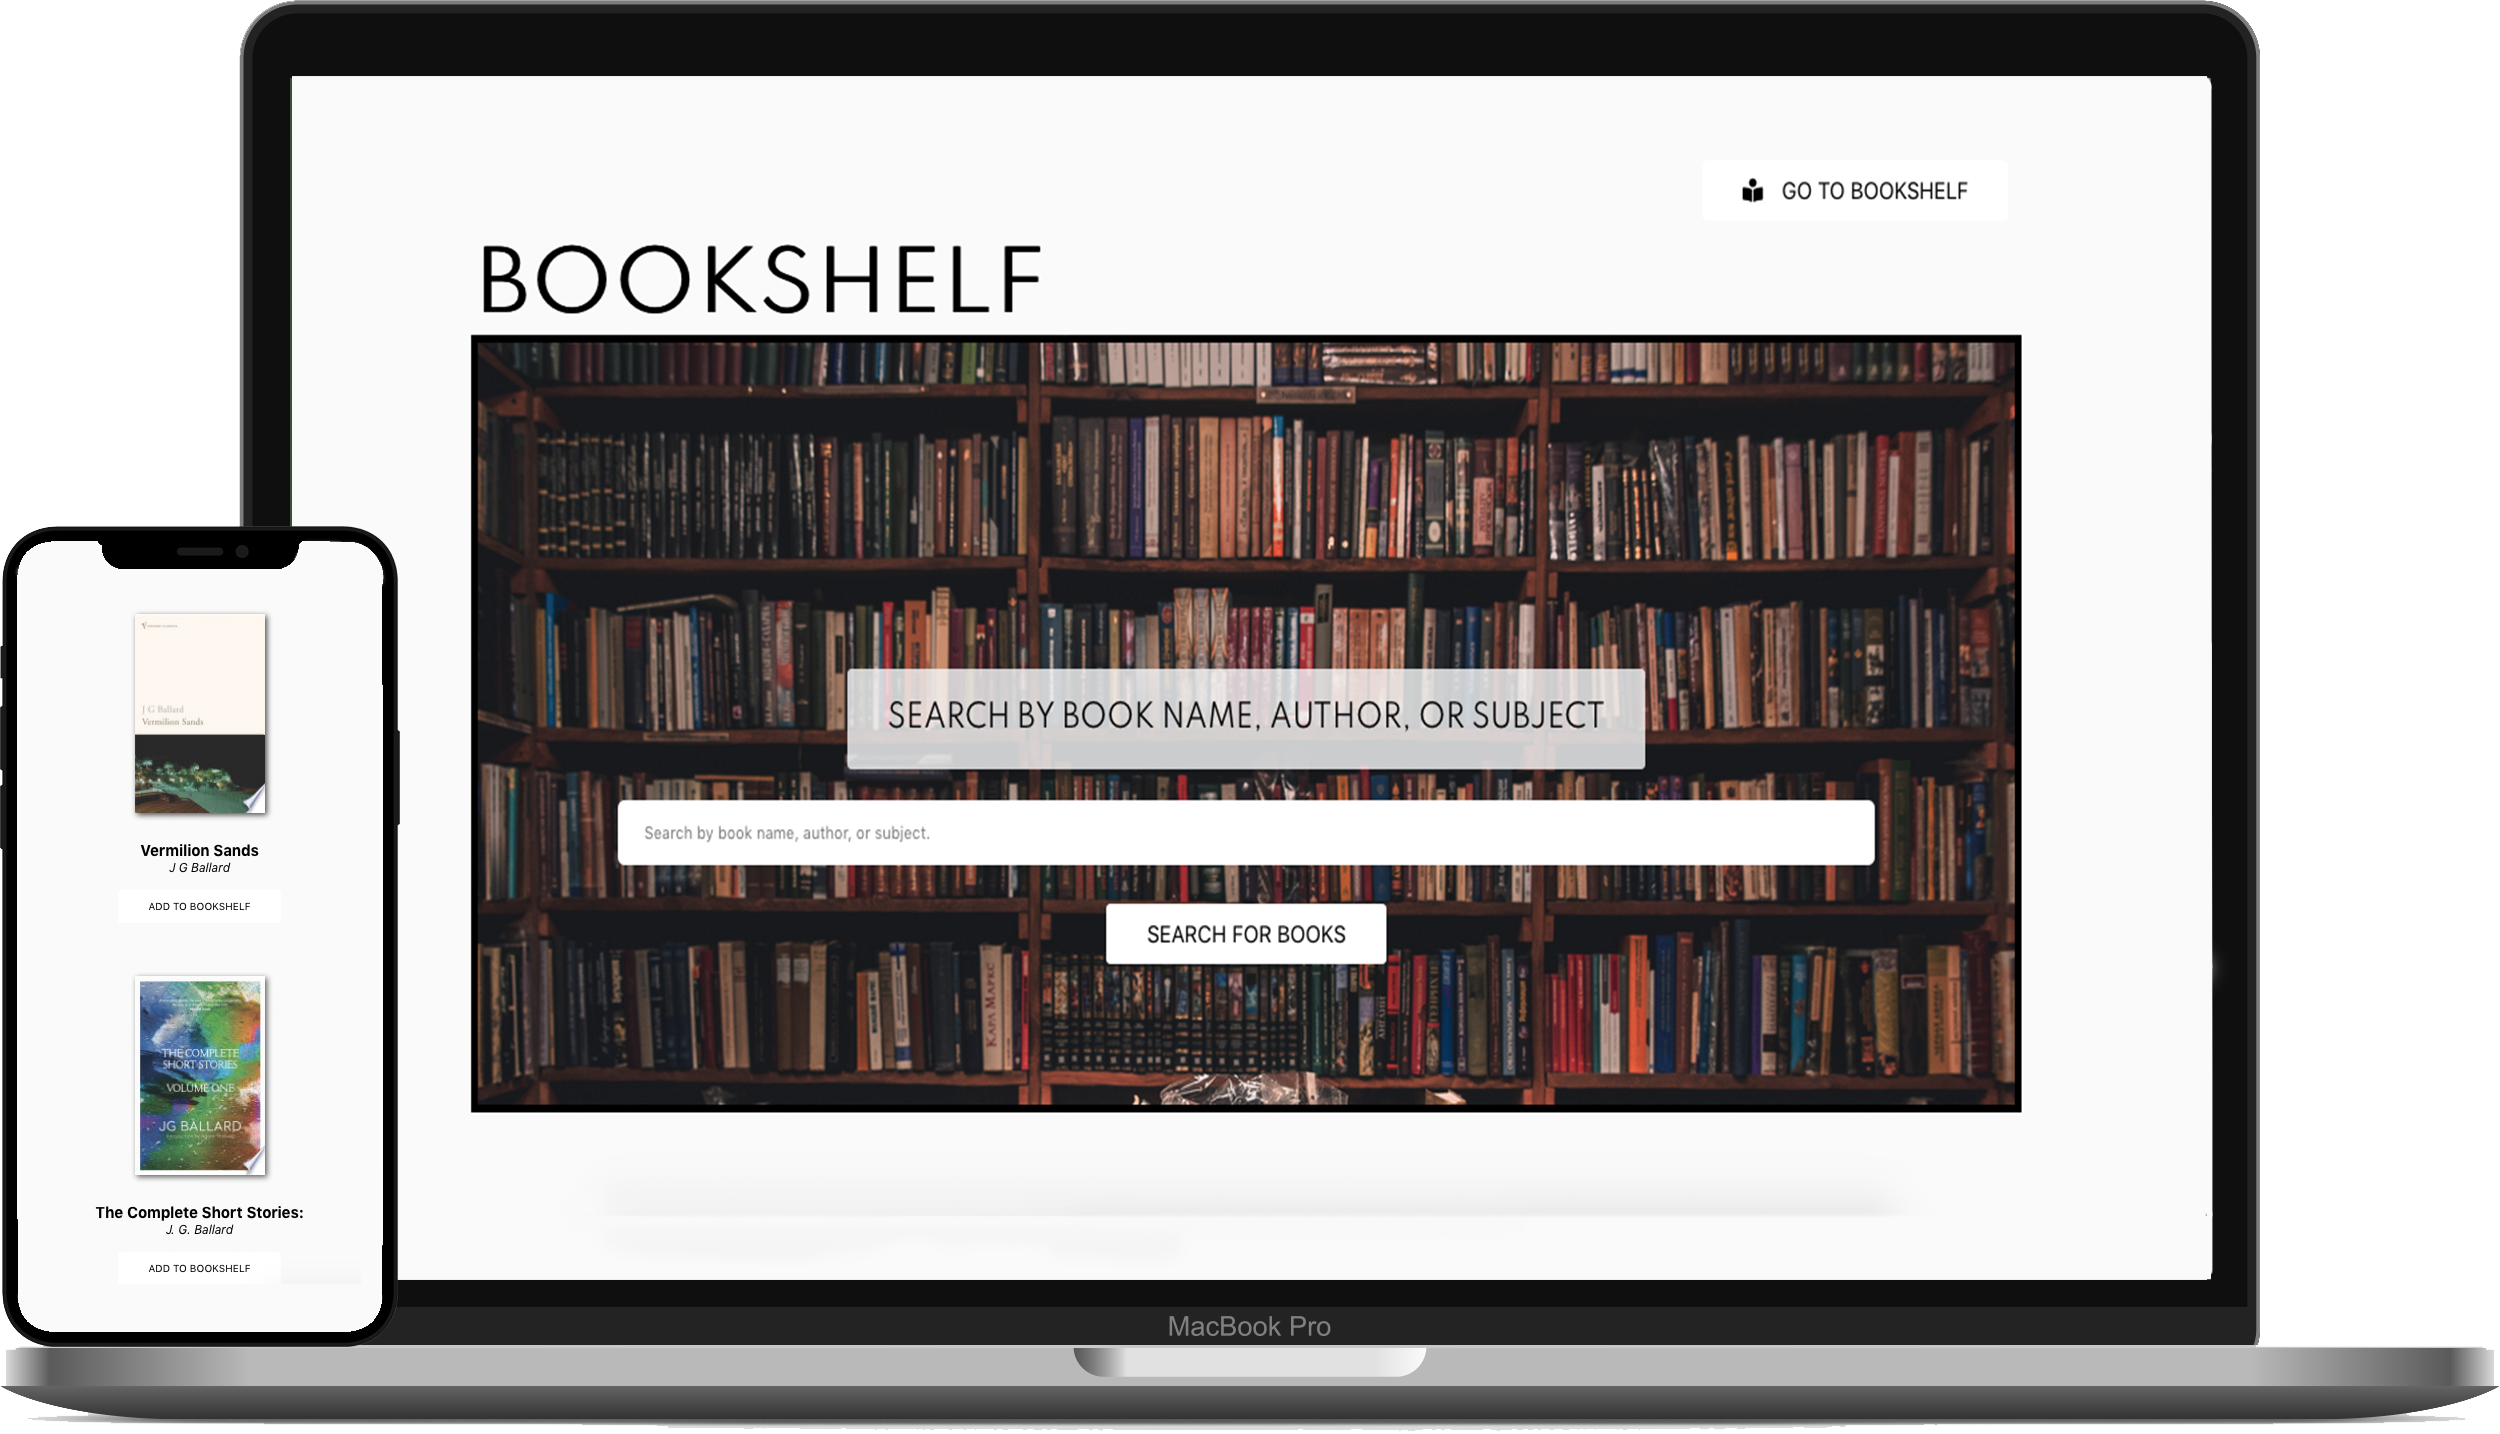
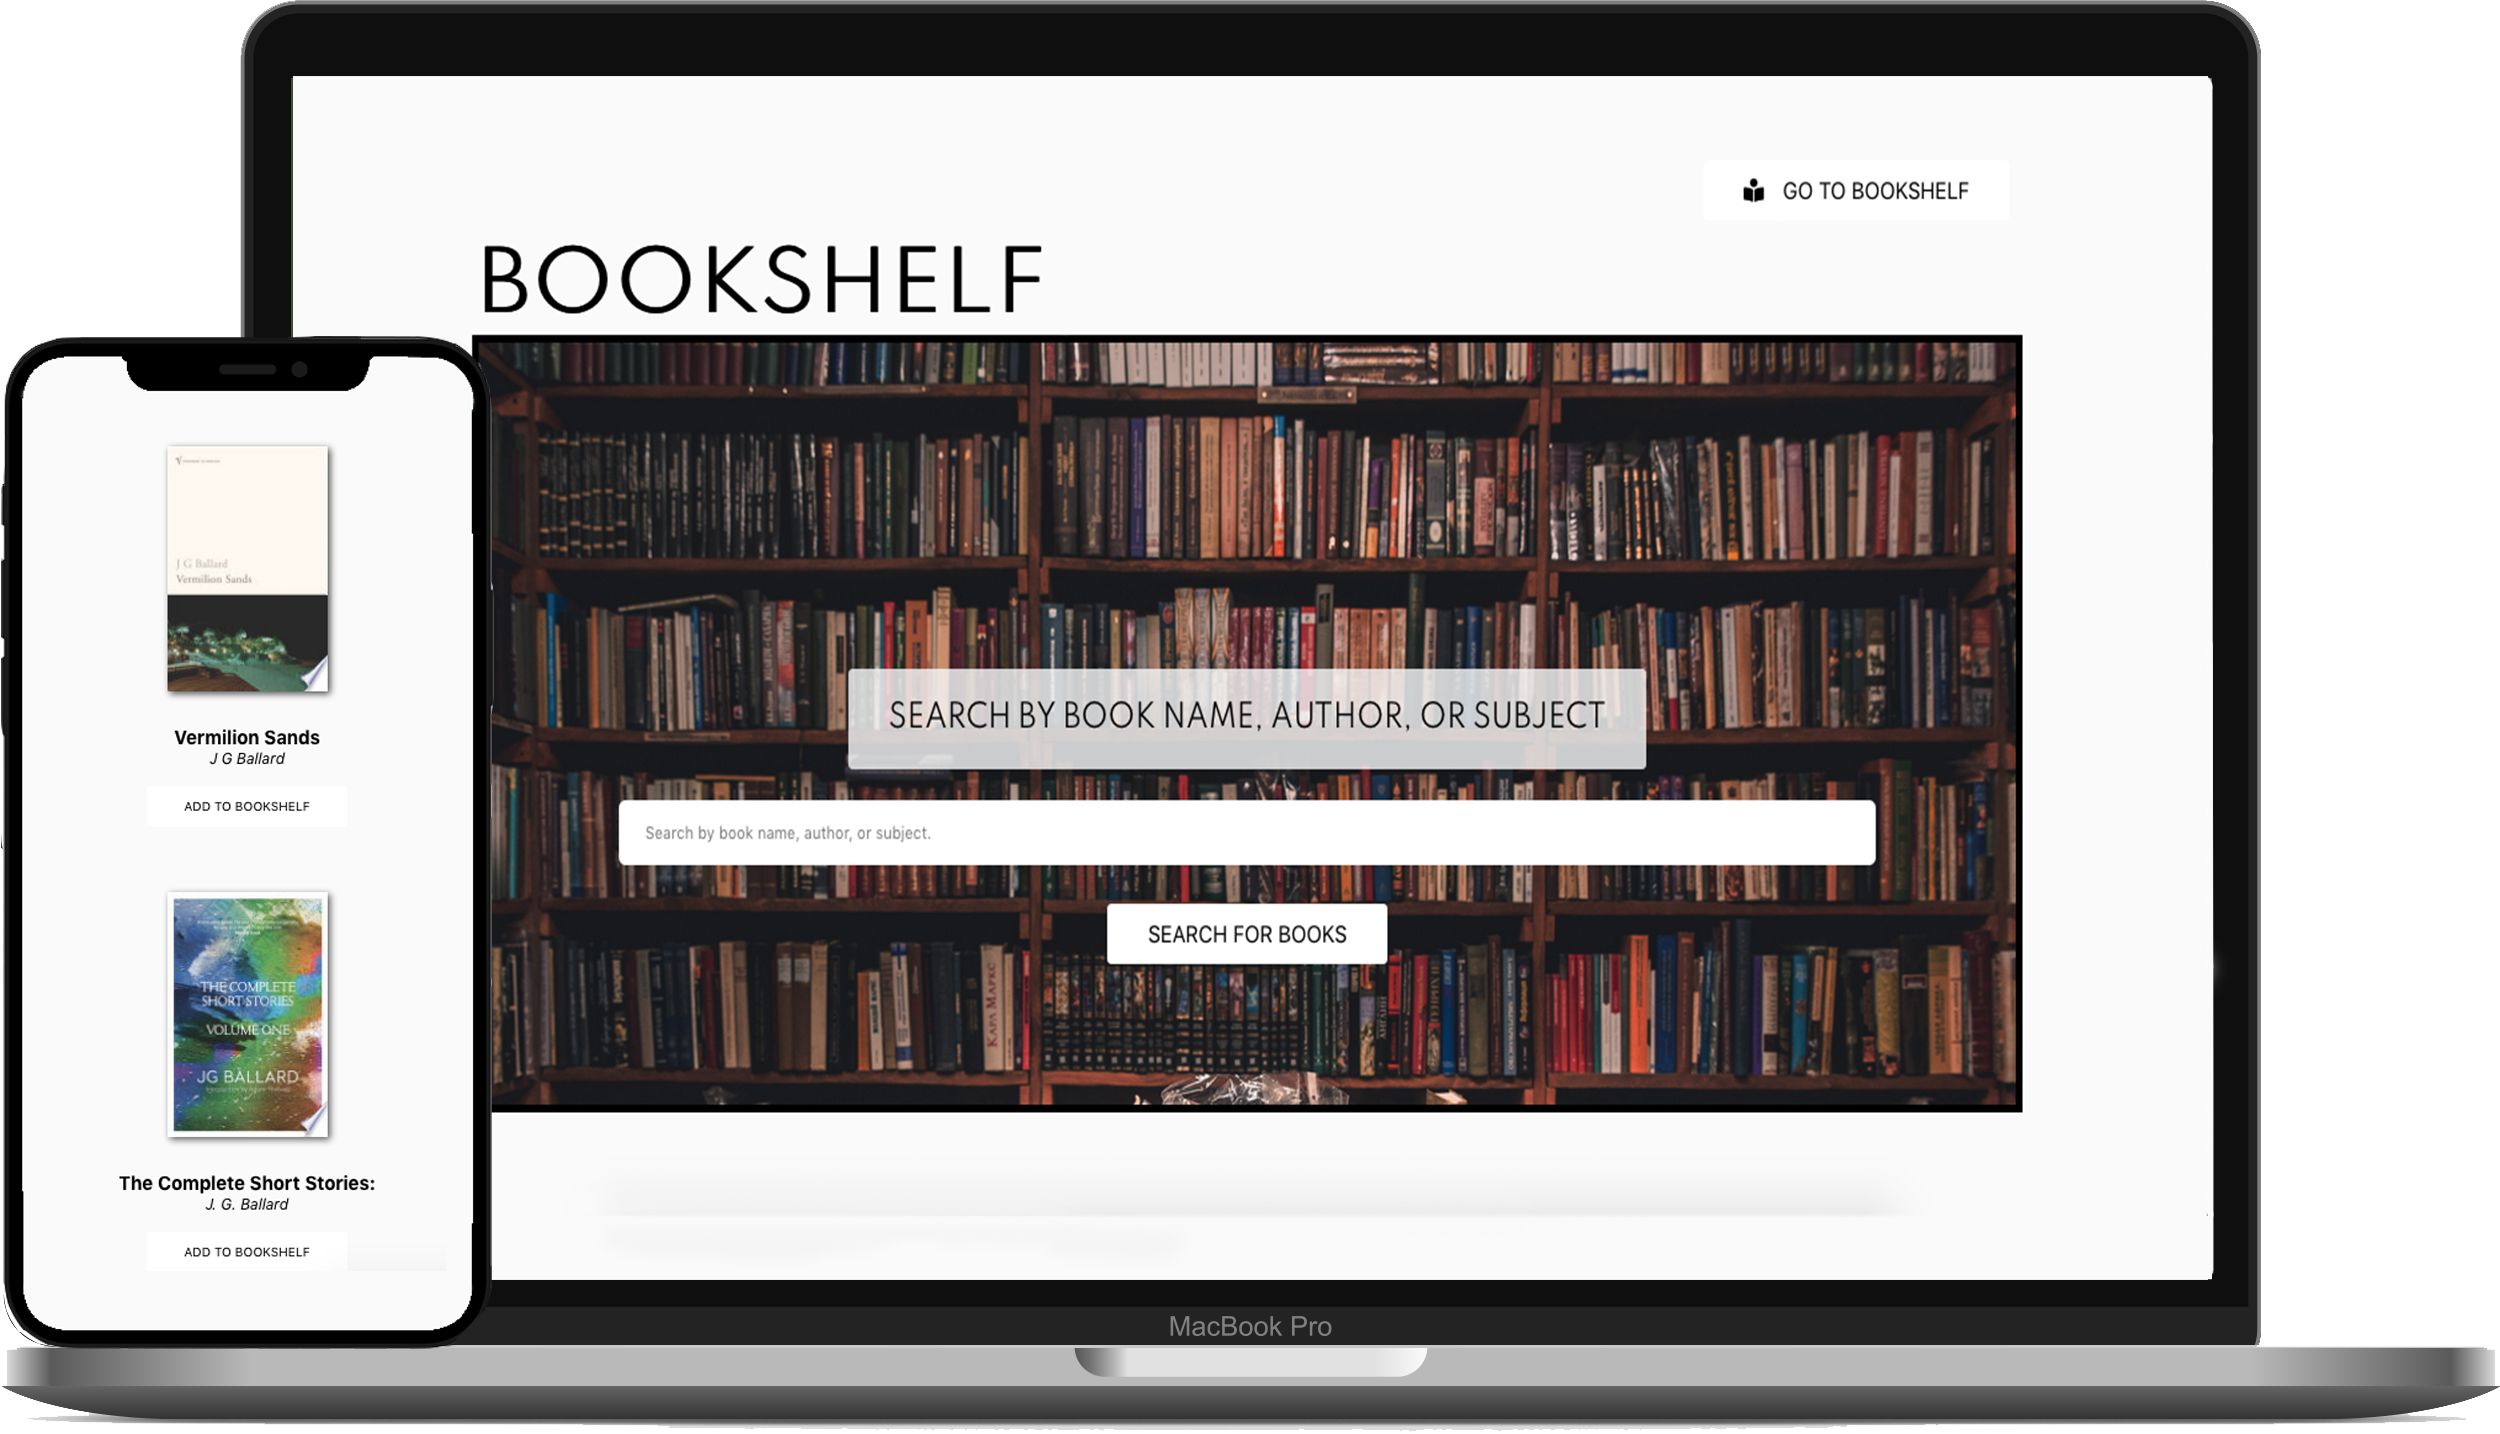
added focus states, improved accessibility, resized iphone images, made styling generally more pleasing

diff --git a/styles/style.css b/styles/style.css
@@ -359,11 +359,16 @@ body {
   opacity: 0.5;
 }
 
+header {
+  position: relative;
+  height: 650px;
+}
+
 header nav {
   background-color: white;
   position: fixed;
   width: 100%;
-  height: 8vh;
+  height: 50px;
   z-index: 1;
 }
 
@@ -378,10 +383,6 @@ header nav .wrapper {
       -ms-flex-align: center;
           align-items: center;
   padding: 0px 0 10px 0;
-}
-
-header nav .wrapper a {
-  padding-bottom: 10px;
 }
 
 header nav a {
@@ -402,10 +403,13 @@ header nav ul {
   display: -webkit-box;
   display: -ms-flexbox;
   display: flex;
+  -webkit-box-align: center;
+      -ms-flex-align: center;
+          align-items: center;
 }
 
 header nav ul li {
-  padding: 10px 0 15px 30px;
+  padding-left: 30px;
 }
 
 header nav ul li a {
@@ -419,7 +423,6 @@ header nav ul li a:hover,
 header nav ul li a:focus {
   padding-bottom: 10px;
   color: #e73058;
-  border-bottom: 2px solid #e73058;
 }
 
 header .headerText {
@@ -459,9 +462,7 @@ header .fa-chevron-down {
 }
 
 .aboutMe {
-  height: 100vh;
-  padding-top: 10vh;
-  position: relative;
+  padding: 50px 0;
 }
 
 .aboutMe .aboutMeInfo {
@@ -490,6 +491,7 @@ header .fa-chevron-down {
   font-weight: 600;
   -webkit-transition: 0.5s ease-in-out;
   transition: 0.5s ease-in-out;
+  text-decoration: underline;
 }
 
 .aboutMe .aboutMeInfo .aboutMeText p a:focus,
@@ -507,17 +509,11 @@ header .fa-chevron-down {
           box-shadow: inset 0 0 0 5px #e73058, 0 0 0 6px #6ECFD9;
 }
 
-.aboutMe .fa-chevron-down {
-  position: absolute;
-  bottom: 10%;
-}
-
 .skills {
-  height: 100vh;
   padding-top: 10vh;
   background-color: #ffffff;
-  background-image: -webkit-gradient(linear, left top, left bottom, from(#ffffff), to(#6ecfd9));
-  background-image: linear-gradient(180deg, #ffffff 0%, #6ecfd9 100%);
+  background-image: -webkit-gradient(linear, left top, left bottom, from(#ffffff), to(#a8f0f8));
+  background-image: linear-gradient(180deg, #ffffff 0%, #a8f0f8 100%);
   position: relative;
 }
 
@@ -560,8 +556,8 @@ header .fa-chevron-down {
 .latestWork {
   padding-top: 10vh;
   background-color: #6ecfd9;
-  background-image: -webkit-gradient(linear, left top, left bottom, from(#6ecfd9), color-stop(33%, #ffffff), color-stop(66%, #6ecfd9), to(#ffffff));
-  background-image: linear-gradient(180deg, #6ecfd9 0%, #ffffff 33%, #6ecfd9 66%, #ffffff 100%);
+  background-image: -webkit-gradient(linear, left top, left bottom, from(#a8f0f8), color-stop(33%, #ffffff), color-stop(66%, #a8f0f8), to(#ffffff));
+  background-image: linear-gradient(180deg, #a8f0f8 0%, #ffffff 33%, #a8f0f8 66%, #ffffff 100%);
   position: relative;
 }
 
@@ -659,6 +655,7 @@ header .fa-chevron-down {
 .formWrapper {
   margin: 0 auto;
   width: 60%;
+  margin-bottom: 50px;
 }
 
 .contactMe {
@@ -707,6 +704,10 @@ header .fa-chevron-down {
   margin-right: 20px;
 }
 
+.contactMe form .formFlex Input:focus {
+  border-bottom: 2px solid #e73058;
+}
+
 .contactMe form .textArea textArea {
   display: block;
   margin: 0 auto;
@@ -714,6 +715,10 @@ header .fa-chevron-down {
   border: 2px solid #6ECFD9;
   font-size: 1.8rem;
   padding: 10px;
+}
+
+.contactMe form .textArea textArea:focus {
+  border: 2px solid #e73058;
 }
 
 .contactMe form .formSubmit {
@@ -777,9 +782,16 @@ footer .footerSocialIcons ul {
 }
 
 footer .footerSocialIcons ul li {
-  padding: 20px 20px 10px 20px;
+  padding: 20px;
 }
 
 footer .footerSocialIcons ul li a {
   color: #6ECFD9;
+  -webkit-transition: 0.5s;
+  transition: 0.5s;
+}
+
+footer .footerSocialIcons ul li a:hover,
+footer .footerSocialIcons ul li a:focus {
+  color: #e73058;
 }

diff --git a/styles/sass/_header.scss b/styles/sass/_header.scss
@@ -1,10 +1,12 @@
 header {
+    position: relative;
+    height: 650px;
 
     nav {
         background-color: white;
         position: fixed;
         width: 100%;
-        height: 8vh;
+        height: 50px;
         z-index: 1;
 
         .wrapper {
@@ -13,9 +15,7 @@ header {
             align-items: center;
             padding: 0px 0 10px 0;
 
-            a {
-                padding-bottom: 10px;
-            }        
+                  
         }
 
         a {
@@ -33,9 +33,10 @@ header {
 
         ul {
             display: flex;
+            align-items: center;
 
             li {
-                padding: 10px 0 15px 30px;
+                padding-left: 30px;
             }
     
             li a {
@@ -48,7 +49,6 @@ header {
             li a:focus  {
                 padding-bottom: 10px;
                 color: $accent-color;
-                border-bottom: 2px solid $accent-color;
             }
  
         }

diff --git a/index.html b/index.html
@@ -45,10 +45,6 @@
                 <p>Outside of work, I love to read, hike, and explore the city on my bike or skateboard. If you would like to get in touch, please feel free to send me a <a href="#contact">message.</a> </p>
             </div>
         </div>
-        <div class="arrow">
-            <a href="#skills" id="arrow" class="arrowScroll" alt="Click here to scroll down to the About Me section."><i
-                    class="fas fa-chevron-down"></i></a>
-        </div>
     </section>
 
     <section class="skills wrapper" id="skills">
@@ -96,10 +92,6 @@
                     <p> Accessibility</p>
                 </li>
             </ul>
-            <div class="arrow">
-                <a href="#latestWork" id="arrow" class="arrowScroll" alt="Click here to scroll down to the About Me section."><i
-                        class="fas fa-chevron-down"></i></a>
-            </div>
         </div>
     </section>
 

diff --git a/styles/sass/_about.scss b/styles/sass/_about.scss
@@ -1,7 +1,5 @@
 .aboutMe {
-    height: 100vh;
-    padding-top: 10vh;
-    position: relative;
+    padding: 50px 0;
 
     .aboutMeInfo {
         display: flex;
@@ -22,6 +20,7 @@
                 a {
                     font-weight: 600;
                     transition: 0.5s ease-in-out;
+                    text-decoration: underline;
                     
                 }
 
@@ -42,8 +41,5 @@
         box-shadow: inset 0 0 0 5px $accent-color, 0 0 0 6px $secondary-color;   
     }
 
-    .fa-chevron-down {
-        position: absolute;
-        bottom: 10%;
-    }
+    
 }

diff --git a/styles/sass/_contact.scss b/styles/sass/_contact.scss
@@ -1,6 +1,7 @@
 .formWrapper {
     margin: 0 auto;
     width: 60%;
+    margin-bottom: 50px;
 }
 
 .contactMe {
@@ -38,6 +39,9 @@
             margin-right: 20px;
         }
 
+        .formFlex Input:focus {
+            border-bottom: 2px solid $accent-color;
+        }
 
         .textArea {
 
@@ -48,6 +52,10 @@
                 border: 2px solid $secondary-color;
                 font-size: 1.8rem;
                 padding: 10px;
+            }
+
+            textArea:focus {
+                border: 2px solid $accent-color;
             }
         }
 

diff --git a/styles/sass/_footer.scss b/styles/sass/_footer.scss
@@ -12,12 +12,17 @@ footer {
         font-size: 4rem;
 
         li {
-            padding: 20px 20px 10px 20px;
+            padding: 20px;
         }
 
         li a {
-            
             color: $secondary-color;
+            transition: 0.5s;
+        }
+
+        li a:hover,
+        li a:focus {
+            color: $accent-color;
         }
     }
 

diff --git a/styles/sass/_latestWork.scss b/styles/sass/_latestWork.scss
@@ -1,7 +1,7 @@
 .latestWork {
     padding-top: 10vh;
     background-color: #6ecfd9;
-    background-image: linear-gradient(180deg, #6ecfd9 0%, #ffffff 33%, #6ecfd9 66%, #ffffff 100%);
+    background-image: linear-gradient(180deg, #a8f0f8 0%, #ffffff 33%, #a8f0f8 66%, #ffffff 100%);
     position: relative;
 
 

diff --git a/styles/sass/_skills.scss b/styles/sass/_skills.scss
@@ -1,8 +1,7 @@
 .skills {
-    height: 100vh;
     padding-top: 10vh;
     background-color: #ffffff;
-    background-image: linear-gradient(180deg, #ffffff 0%, #6ecfd9 100%);
+    background-image: linear-gradient(180deg, #ffffff 0%, #a8f0f8 100%);
     position: relative;
 
     
